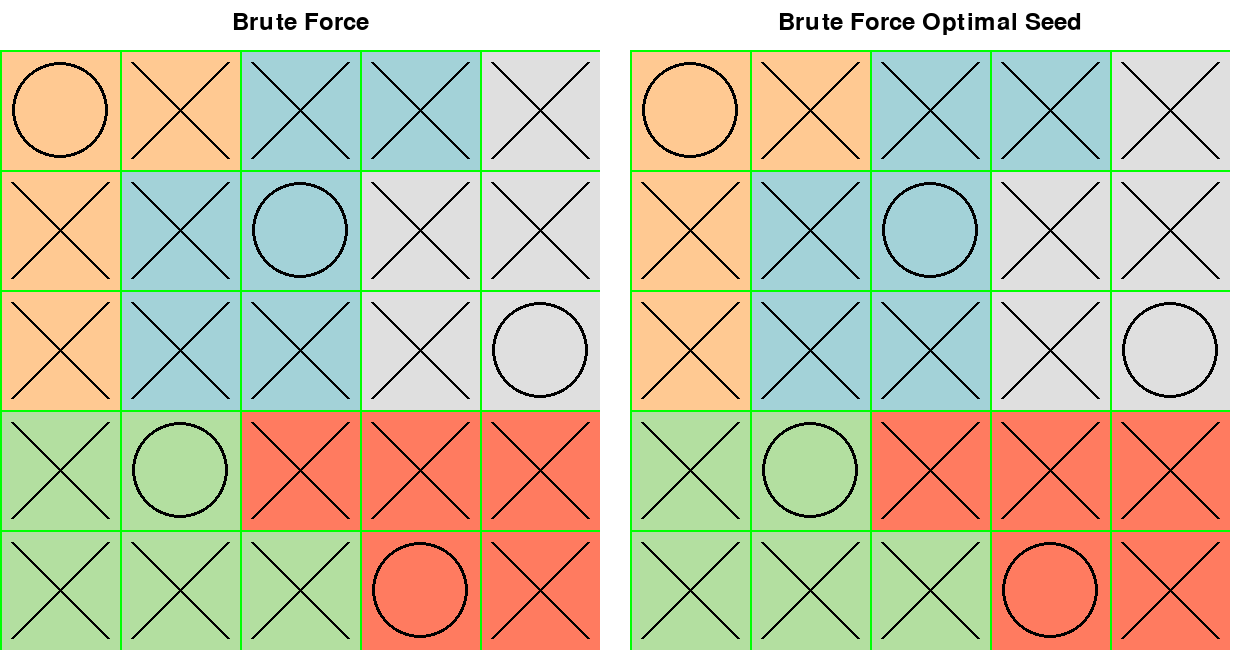
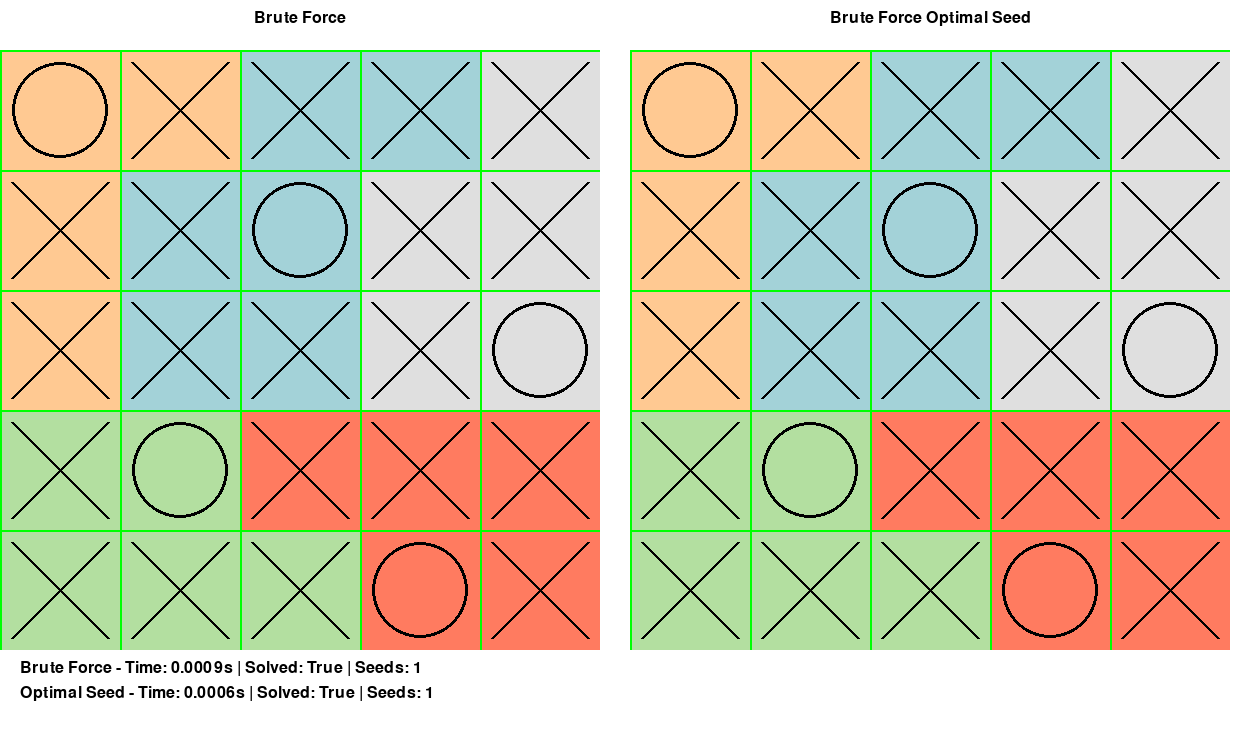
Embed Stats in Image

diff --git a/autotester.py b/autotester.py
@@ -1,12 +1,31 @@
 from board import Board
 from validate import Validator
 from solve import Solver
+import copy
 import os
 import json
 import time
 
 
 import pygame
+#  map_times[mapNum] = (
+#             elapsed_BF, 
+#             solved_BF,  # Boolean indicating if Algorithm 1 solved the map
+#             num_seeds_BF,
+#             attempt_BF,
+#             elapsed_BFOS, 
+#             solved_BFOS,  # Boolean indicating if Algorithm 2 solved the map
+#             num_seeds_BFOS,
+#             attempt_BFOS # The actual board object
+#         )
+class Stats:
+    def __init__(self, board : Board, elapsed, passed : bool, seeds_attempted : int, chosen_seed : tuple):
+        self.board = copy.deepcopy(board)
+        self.elapsed = elapsed
+        self.passed = passed
+        self.seeds_attempted = seeds_attempted
+        self.chosen_seed = chosen_seed
+
 
 CELL_SIZE = 60
 WINDOW_PADDING = 20  # Extra spacing for a cleaner look
@@ -26,52 +45,67 @@ def get_board_data(mapNum: int):
     return Board(mapData['name'], mapData['caseNumber'], mapData['colorGrid'])
 
 
-def display_boards(BF_board: Board, BF_pass, BFOS_board: Board, BFOS_pass, image_folder):
+
+def display_boards(map_data, image_folder):
     pygame.init()
     pygame.font.init()
-    """Displays both the original and solved boards side by side using Pygame."""
-    grid_size = BF_board.size
 
-    CELL_SIZE = 600//grid_size  # Keep cell size within reasonable bounds
+    # Unpack the map_data tuple
+    elapsed_BF, solved_BF, num_seeds_BF, attempt_BF, elapsed_BFOS, solved_BFOS, num_seeds_BFOS, attempt_BFOS = map_data
+
+    grid_size = attempt_BF.size
+    CELL_SIZE = 600 // grid_size  # Keep cell size within reasonable bounds
 
     WINDOW_SIZE = grid_size * CELL_SIZE
-    WINDOW_PADDING = 30  # Increase padding slightly
-    screen_width = (WINDOW_SIZE * 2) + WINDOW_PADDING + 10  # Ensure enough width
-    screen_height = WINDOW_SIZE + 60  # Add extra space for captions
+    WINDOW_PADDING = 30  
+    screen_width = (WINDOW_SIZE * 2) + WINDOW_PADDING + 10  
+    screen_height = WINDOW_SIZE + 150  # Extra height for text display
 
     screen = pygame.display.set_mode((screen_width, screen_height), pygame.RESIZABLE)
-    pygame.display.set_caption("Auto Tester - Comparing Boards")
+    pygame.display.set_caption(f"Comparison - Map {attempt_BF.name}")
 
     running = True
     while running:
         screen.fill((255, 255, 255))
-        font = pygame.font.Font(None, 36)
-        
+        font = pygame.font.Font(None, 24)
+
         # Draw captions above each board
         caption_BF = font.render("Brute Force", True, (0, 0, 0))
         caption_BFOS = font.render("Brute Force Optimal Seed", True, (0, 0, 0))
-        
+
         screen.blit(caption_BF, (WINDOW_SIZE // 2 - caption_BF.get_width() // 2, 10))
         screen.blit(caption_BFOS, (WINDOW_SIZE + WINDOW_PADDING + (WINDOW_SIZE // 2 - caption_BFOS.get_width() // 2), 10))
-        
-        # Draw boards below captions
-        BF_board.draw_board(screen.subsurface((0, 50, WINDOW_SIZE, WINDOW_SIZE)),BF_pass)
-        BFOS_board.draw_board(screen.subsurface((WINDOW_SIZE + WINDOW_PADDING, 50, WINDOW_SIZE, WINDOW_SIZE)),BFOS_pass)
-        
+
+        # Draw boards
+        attempt_BF.draw_board(screen.subsurface((0, 50, WINDOW_SIZE, WINDOW_SIZE)), solved_BF)
+        attempt_BFOS.draw_board(screen.subsurface((WINDOW_SIZE + WINDOW_PADDING, 50, WINDOW_SIZE, WINDOW_SIZE)), solved_BFOS)
+
+        # Display additional information
+        info_start_y = WINDOW_SIZE + 60
+        info_x = 20
+
+        stats = [
+            f"Brute Force - Time: {elapsed_BF:.4f}s | Solved: {solved_BF} | Seeds: {num_seeds_BF}",
+            f"Optimal Seed - Time: {elapsed_BFOS:.4f}s | Solved: {solved_BFOS} | Seeds: {num_seeds_BFOS}",
+        ]
+
+        for i, stat in enumerate(stats):
+            stat_text = font.render(stat, True, (0, 0, 0))
+            screen.blit(stat_text, (info_x, info_start_y + (i * 25)))
+
         pygame.display.flip()
-        
 
-        image_path = os.path.join(image_folder, f"comparison_map_{BF_board.name}.png")
+        # Save the image
+        image_path = os.path.join(image_folder, f"comparison_map_{attempt_BF.name}.png")
+        pygame.image.save(screen, image_path)
 
-        pygame.image.save(screen, image_path)  # Save the screen as a PNG file with map name
-
-        # Event loop to allow closing the window
+        # Event handling
         for event in pygame.event.get():
             if event.type == pygame.QUIT:
                 running = False
 
-        time.sleep(2)  # Show the boards for 2 seconds before proceeding
-        running = False  # Exit loop after delay
+        time.sleep(2)  # Show the boards for 2 seconds
+        running = False
 
     pygame.quit()
 
@@ -126,7 +160,7 @@ def main():
         num_seeds_BFOS = solver.num_seeds
         print(f"Brute Force Seeds Attempted: {num_seeds_BFOS}")
 
-        display_boards(attempt_BF,solved_BF, attempt_BFOS,solved_BFOS, image_folder)
+
 
         # Storing map data: (time_BF, result_BF, time_BFOS, result_BFOS, board)
         print(f"Storing data for map #{mapNum}...")
@@ -134,12 +168,14 @@ def main():
             elapsed_BF, 
             solved_BF,  # Boolean indicating if Algorithm 1 solved the map
             num_seeds_BF,
-            attempt_BF.pieces,
+            attempt_BF,
             elapsed_BFOS, 
             solved_BFOS,  # Boolean indicating if Algorithm 2 solved the map
             num_seeds_BFOS,
-            attempt_BFOS.pieces  # The actual board object
+            attempt_BFOS # The actual board object
         )
+
+        display_boards(map_times[mapNum], image_folder)
 
     # After processing all maps, print or return the results
     print("\n-----------------------------------------------------------")

diff --git a/solve.py b/solve.py
@@ -7,6 +7,7 @@ class Solver:
     def __init__(self,validator : Validator):
         self.validator = validator
         self.num_seeds = 0
+        self.chosen_seed = (-1,-1)
 
     def brute_force_helper(self, board_data : Board,screen):
 
@@ -78,6 +79,8 @@ class Solver:
                     if attempt:
                         board_data = copy.deepcopy(temp)
 
+                        self.chosen_seed = (row,col)
+
                         return board_data
                 
         print("No Solution found")
@@ -113,6 +116,8 @@ class Solver:
 
                 if attempt:
                     board_data = copy.deepcopy(temp)
+                    self.chosen_seed = seed
+                
 
                     return board_data
                 
